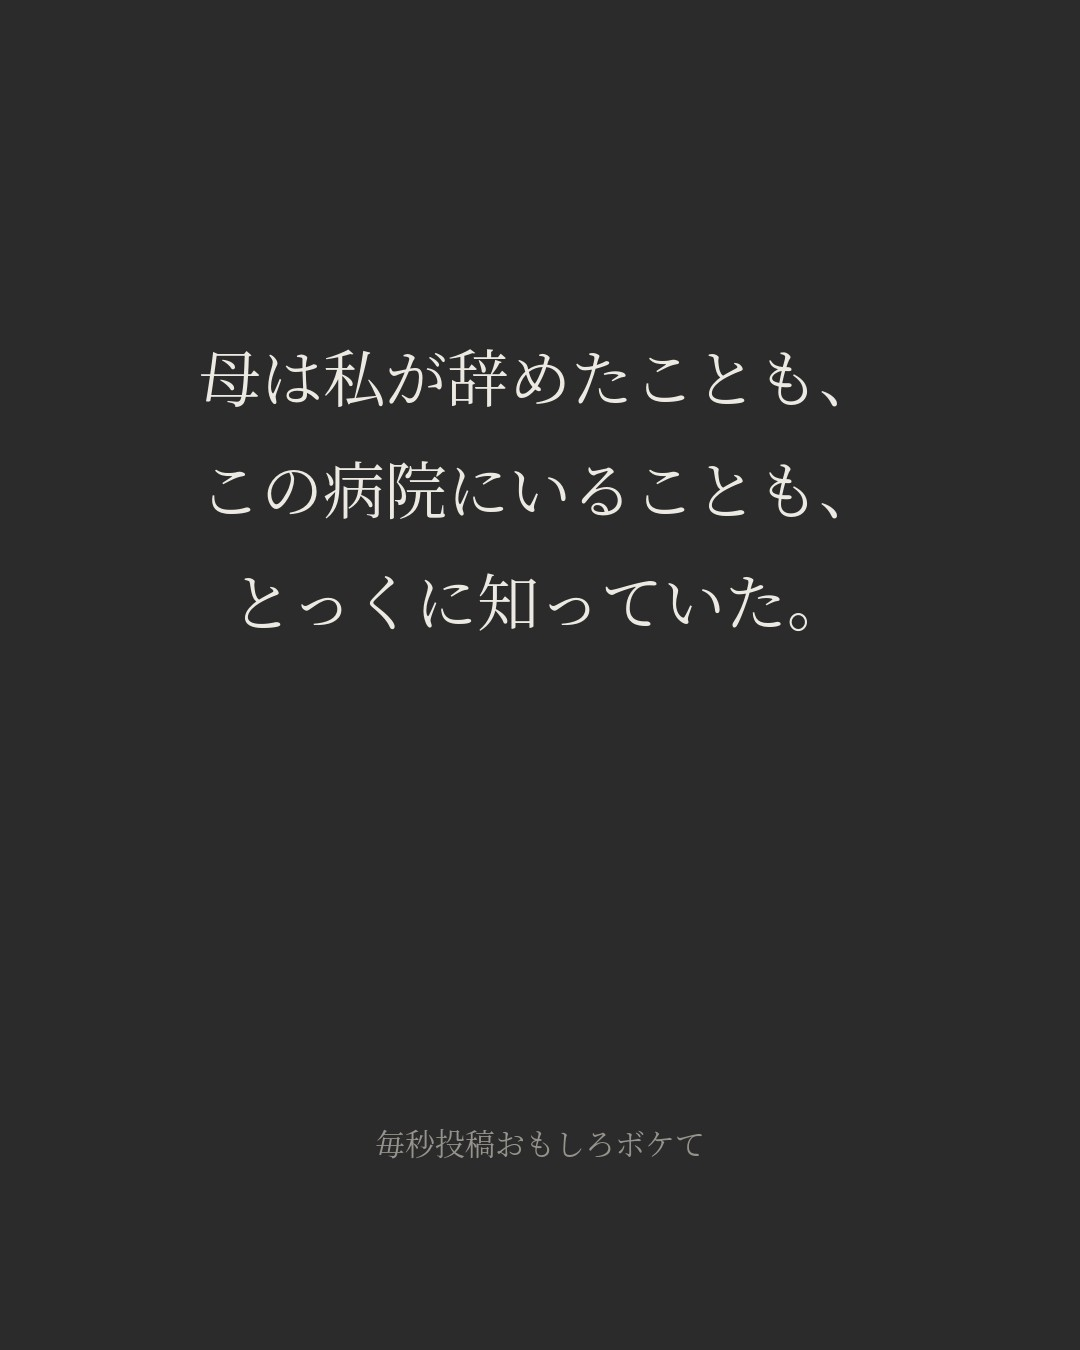
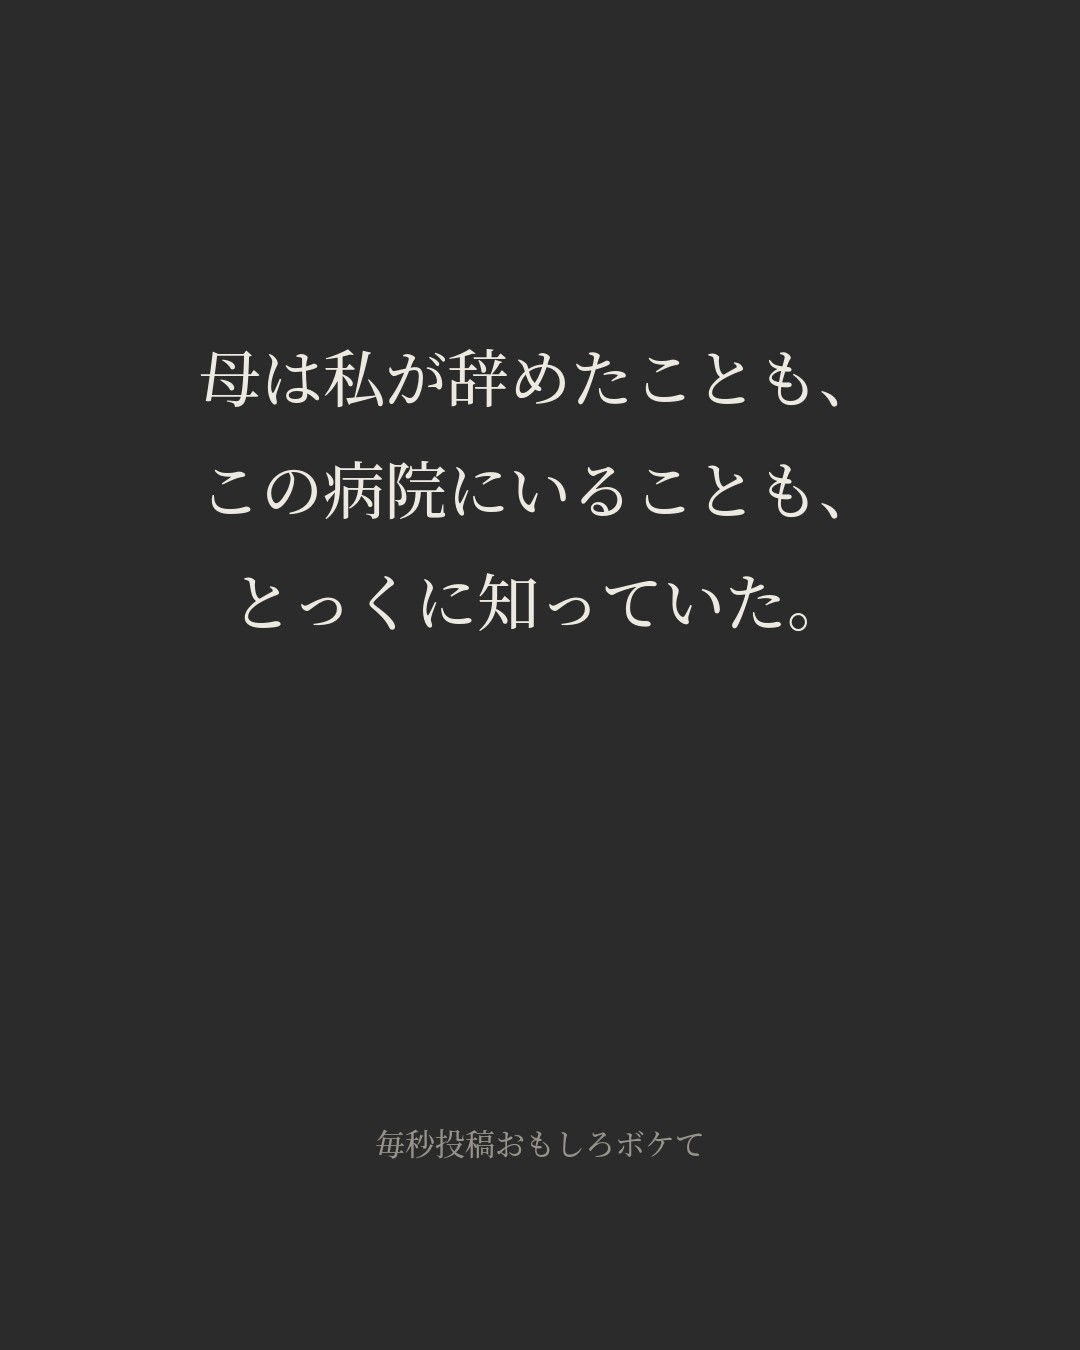
story: natural Japanese line breaks (clause first, BudouX phrases), re-render pending
Claude-Session: https://claude.ai/code/session_01KBp17xuZ7J3DfSGt4oczpw

diff --git a/studio/story_cloud.py b/studio/story_cloud.py
@@ -78,31 +78,59 @@ def font(size):
     raise RuntimeError("日本語の明朝フォントがありません（fonts-noto-cjk を入れてください）")
 
 
+def _phrases(text):
+    try:
+        import budoux
+        parts = budoux.load_default_japanese_parser().parse(text)
+    except Exception:
+        parts = list(text)
+    out = []
+    for t in parts:
+        if out and t and t[0] in "、。」！？）":
+            out[-1] += t
+        else:
+            out.append(t)
+    return out
+
+
 def wrap_ja(draw, text, f, maxw):
-    """読点・句点の後ろで優先的に改行し、それでも長ければ文字単位で折る。"""
-    chunks = re.findall(r"[^、。！？」]*[、。！？」]?", text)
-    chunks = [c for c in chunks if c]
-    lines, cur = [], ""
-    for c in chunks:
-        if draw.textlength(cur + c, font=f) <= maxw:
-            cur += c
-            continue
-        if cur:
-            lines.append(cur)
-        cur = ""
-        for ch in c:
-            if draw.textlength(cur + ch, font=f) > maxw:
-                lines.append(cur)
-                cur = ""
-            cur += ch
+    """読点・カギカッコの切れ目で優先して改行し、長い所だけ文節（BudouX）で折る。短すぎる行は前後とまとめる。"""
+    W_ = lambda t: draw.textlength(t, font=f)
+    clauses, cur = [], ""
+    for ch in text:
+        cur += ch
+        if ch in "、。！？" or (ch == "」" and len(cur) > 6):
+            clauses.append(cur)
+            cur = ""
     if cur:
-        lines.append(cur)
-    # 行頭に句読点が来たら前の行へ
-    for i in range(1, len(lines)):
-        while lines[i] and lines[i][0] in "、。」！？":
-            lines[i - 1] += lines[i][0]
-            lines[i] = lines[i][1:]
-    return [l for l in lines if l]
+        clauses.append(cur)
+    lines = []
+    for c in clauses:
+        if W_(c) <= maxw:
+            lines.append(c)
+            continue
+        k = int(-(-W_(c) // maxw))
+        target = W_(c) / k
+        line = ""
+        for ph in _phrases(c):
+            if line and (W_(line + ph) > maxw or W_(line + ph) > target * 1.15):
+                lines.append(line)
+                line = ph
+            else:
+                line += ph
+        if line:
+            lines.append(line)
+    # 短い行（6文字以下）は、収まるなら隣とまとめる
+    changed = True
+    while changed:
+        changed = False
+        for i, l in enumerate(lines):
+            if len(l) <= 6 and len(lines) > 1:
+                if i > 0 and W_(lines[i - 1] + l) <= maxw:
+                    lines[i - 1] += l; del lines[i]; changed = True; break
+                if i + 1 < len(lines) and W_(l + lines[i + 1]) <= maxw:
+                    lines[i + 1] = l + lines[i + 1]; del lines[i]; changed = True; break
+    return lines
 
 
 def slide(text, foot=None):
